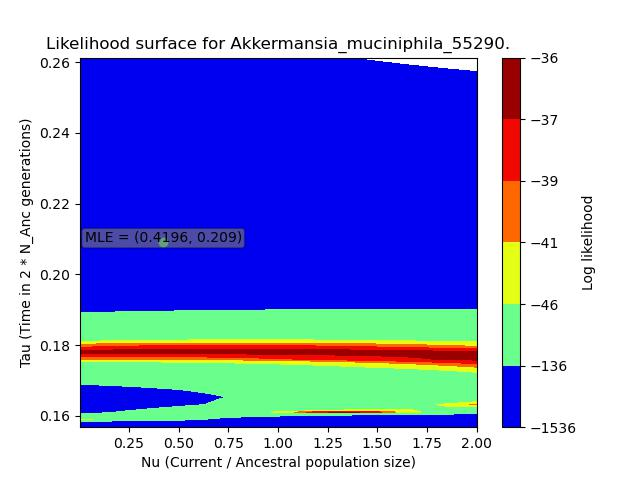
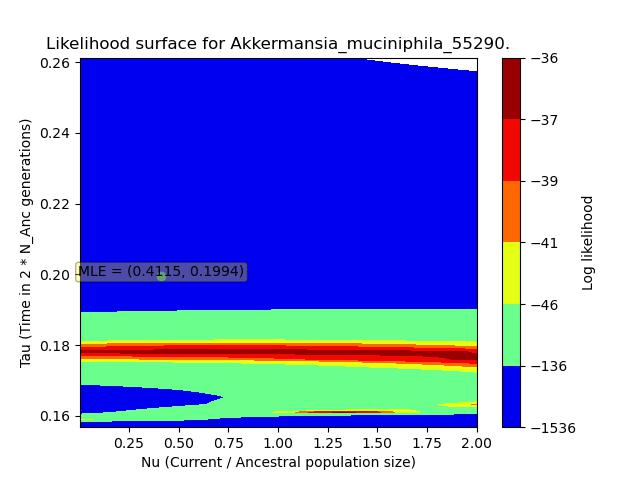
A. shahii

diff --git a/Scripts/plot_likelihood.py b/Scripts/plot_likelihood.py
@@ -501,12 +501,11 @@ class PlotLikelihood():
                         y_val.append(y_range[j])
                         z_val.append(Z[i, j])
                         if Z[i, j] > max_likelihood:
-                            # print(max_likelihood)
-                            # print(Z[i, j])
-                            # print(x_range[i], y_range[j])
-                            # max_likelihood = Z[i, j] * 1.0
-                            # best_params = [x_range[i], y_range[j]]
-                            temp = 0
+                            print(max_likelihood)
+                            print(Z[i, j])
+                            print(x_range[i], y_range[j])
+                            max_likelihood = Z[i, j] * 1.0
+                            best_params = [x_range[i], y_range[j]]
                 df = pd.DataFrame({'X': x_val, 'Y': y_val, 'Z': z_val})
                 df.to_csv(likelihood_surface)
                 # fig = plt.figure()
